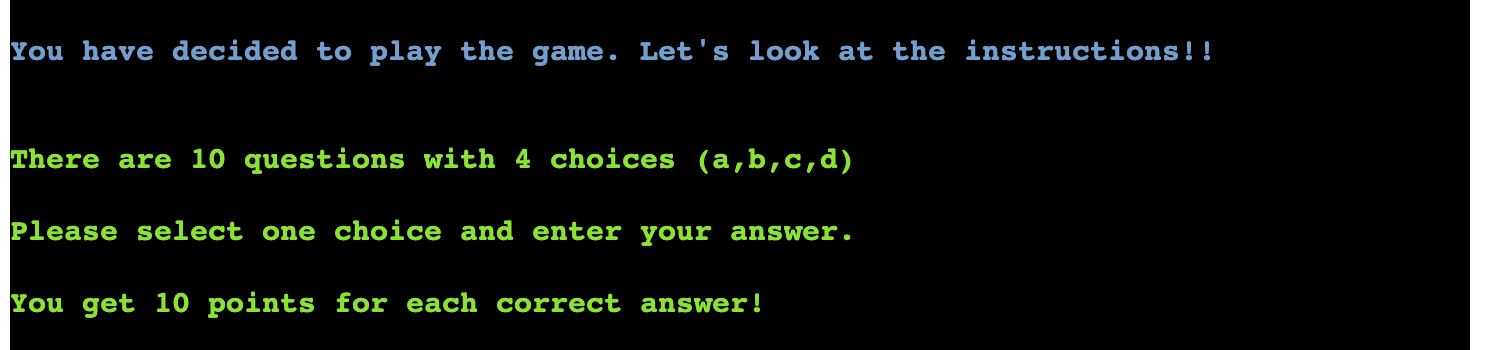
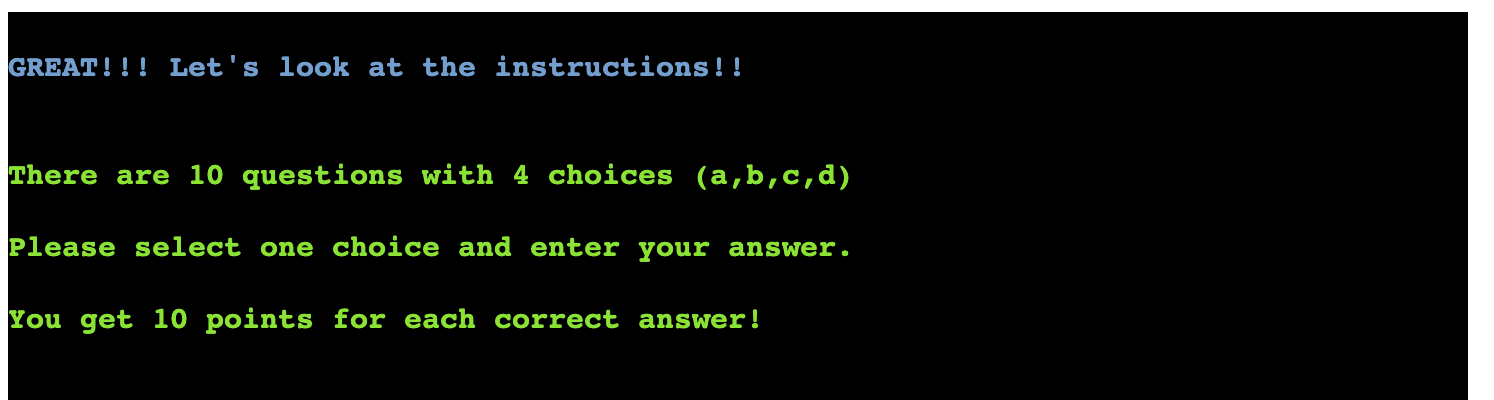
Changed the images in readme for welcome message, instructions and incorrect answer after fixing the code

diff --git a/README.md b/README.md
@@ -48,8 +48,8 @@ IMPLEMENTATION
     * Instructiom is  displayed asking whether to begin the game.
     * The instructions to play the game are displayed.
 
-![Welcome](docs/readme_images/welcome-1.png)
-![Instructions](docs/readme_images/Instructions.png)
+![Welcome](docs/readme_images/welcome.png)
+![Instructions](docs/readme_images/instructions.png)
 
 ## User story 2:
 As a user I want to experience learning and score myself so that I can rate myself and an app to do so is available.
@@ -65,7 +65,7 @@ IMPLEMENTATION
 
 ![Correct-answer](docs/readme_images/Correct.png)
 
-![Incorrect-answer](docs/readme_images/Incorrect.png)
+![Incorrect-answer](docs/readme_images/Incorrect-answer.png)
 
 ![Invalid-answer](docs/readme_images/Invalid.png)
 
